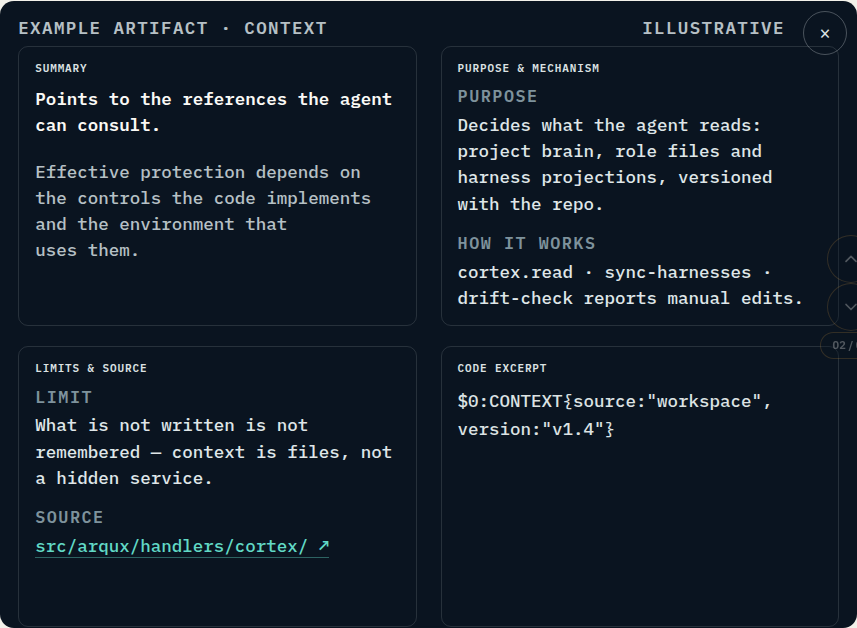
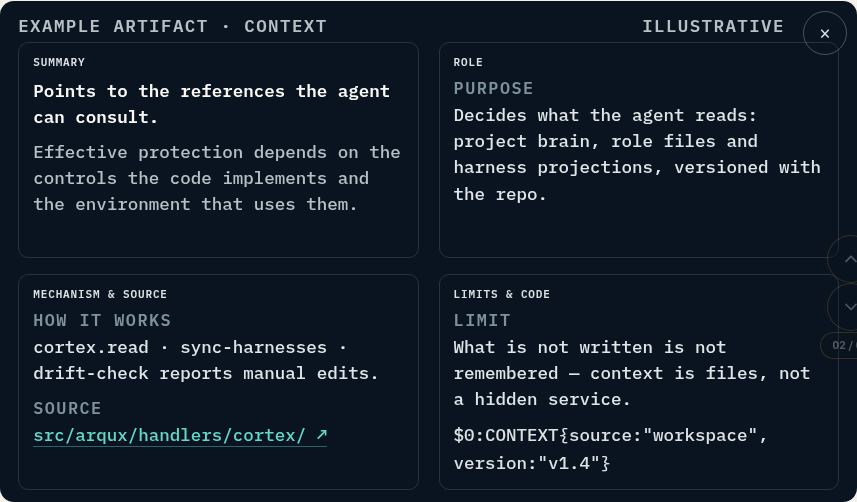
Detail card: pixel-equal quadrants, rebalance content, fix 320px overflow
- Rebalanced quadrant content so the tallest cell no longer dictates
  both rows: Role (purpose) / Mechanism & source (via+src) /
  Limits & code (limit+excerpt). Card fits the visual at ES 1024px
  without inner scroll (745px -> 551px needed).
- grid-auto-rows:1fr now applies on mobile too: all four cells are
  exactly equal width and height at every viewport.
- overflow-wrap:anywhere + min-width:0 along the flex/grid chain fix
  horizontal overflow at 320px (unbreakable source URLs).
- Moderate compaction: cell padding 12px, grid gap 16/20, card
  padding 14/18/12, dt margin 2px.

Generated with [Devin](https://devin.ai)

diff --git a/assets/style.css b/assets/style.css
@@ -74,20 +74,22 @@ h3{font-size:1.1rem;font-weight:650;letter-spacing:-.02em;margin-bottom:8px}.lea
 .hex-visual .hex-map{visibility:visible;transition:opacity .45s ease,transform .55s cubic-bezier(.2,.8,.3,1),visibility 0s}
 .hex-visual.is-detail .hex-map{pointer-events:none}
 @media(min-width:981px){.hex-visual.is-detail .hex-map{opacity:0;transform:translateY(38px) scale(.88) rotate(4deg);visibility:hidden;transition:opacity .38s ease,transform .5s cubic-bezier(.2,.8,.3,1),visibility 0s .45s}}
-.artifact-preview{position:absolute;top:0;left:0;right:0;height:auto;max-height:100%;z-index:6;margin-top:0;border-radius:14px;background:var(--ink-950);color:var(--paper-100);padding:16px 18px 14px;font:500 12px/1.6 var(--mono);overflow:auto;opacity:0;visibility:hidden;transform:translateY(10px) scale(.985);transition:opacity .28s ease,transform .34s cubic-bezier(.2,.8,.3,1),visibility .28s;pointer-events:none}
+.artifact-preview{position:absolute;top:0;left:0;right:0;height:auto;max-height:100%;z-index:6;margin-top:0;border-radius:14px;background:var(--ink-950);color:var(--paper-100);padding:14px 18px 12px;font:500 12px/1.6 var(--mono);overflow:auto;opacity:0;visibility:hidden;transform:translateY(10px) scale(.985);transition:opacity .28s ease,transform .34s cubic-bezier(.2,.8,.3,1),visibility .28s;pointer-events:none}
 .hex-visual.is-detail .artifact-preview{opacity:1;visibility:visible;transform:none;pointer-events:auto}
 .hex-visual>.artifact-preview{justify-self:stretch}
 .artifact-preview .artifact-label{padding-right:54px}
-.dim-benefit{margin:0 0 10px;font:600 17.5px/1.5 var(--mono);color:var(--paper-100)}
+.dim-benefit{margin:0;font:600 17.5px/1.5 var(--mono);color:var(--paper-100)}
 .dim-footer{margin:0;font:500 17.5px/1.5 var(--mono);color:var(--mist-500)}
-.dim-grid{display:grid;grid-template-columns:1fr 1fr;grid-auto-rows:1fr;gap:20px 24px}
-.dim-q{min-width:0;align-self:stretch;height:100%;display:flex;flex-direction:column;gap:10px;padding:14px 16px;border:1px solid rgba(220,226,227,.14);border-radius:10px;box-sizing:border-box}
+.dim-grid{display:grid;grid-template-columns:1fr 1fr;grid-auto-rows:1fr;gap:16px 20px}
+.dim-q{min-width:0;align-self:stretch;height:100%;display:flex;flex-direction:column;gap:8px;padding:12px 14px;border:1px solid rgba(220,226,227,.14);border-radius:10px;box-sizing:border-box;overflow-wrap:anywhere}
 .dim-q-title{margin:0;font:600 11px/1.4 var(--mono);letter-spacing:.08em;text-transform:uppercase;color:var(--mist-300)}
-.dim-q .ficha-rows{display:grid;grid-template-columns:1fr;gap:16px;margin:0;padding:0;border-top:0}
+.dim-q .ficha-rows{display:grid;grid-template-columns:1fr;gap:12px;margin:0;padding:0;border-top:0;min-width:0}
+.dim-q .ficha-rows>div{min-width:0}
+.dim-q .ficha-rows dt{margin-bottom:2px}
 .dim-q-code{display:block;font:500 17.5px/1.6 var(--mono);color:var(--mist-300);white-space:pre-wrap;overflow-wrap:anywhere}
 .dim-preview-close{position:absolute;right:10px;top:10px;width:44px;height:44px;display:grid;place-items:center;border:1px solid rgba(220,226,227,.3);border-radius:50%;background:transparent;color:var(--mist-300);font:400 20px/1 var(--sans);cursor:pointer}
 .dim-preview-close:hover{border-color:var(--amber-500);color:var(--amber-500)}
-.dim-preview-close:focus-visible{outline:2px solid var(--amber-500);outline-offset:3px}.artifact-label{display:flex;align-items:center;justify-content:space-between;gap:10px;color:var(--mist-500);font:600 10px/1.2 var(--mono);text-transform:uppercase;letter-spacing:.08em;margin-bottom:8px}
+.dim-preview-close:focus-visible{outline:2px solid var(--amber-500);outline-offset:3px}.artifact-label{display:flex;align-items:center;justify-content:space-between;gap:10px;color:var(--mist-500);font:600 10px/1.2 var(--mono);text-transform:uppercase;letter-spacing:.08em;margin-bottom:6px}
 #dimensions .artifact-preview{font-size:17.5px}#dimensions .artifact-label{font-size:17.5px}#dimensions .ficha-rows dt{font-size:16.8px}#dimensions .ficha-rows dd{font-size:17.5px}
 .codec-section{background:var(--ink-950);color:var(--paper-100)}.codec-section .eyebrow{color:#b9c4ca}
 .codec-section .eyebrow::before{background:var(--teal-400)}.codec-section .section-copy{color:#b6c0c5}
@@ -517,9 +519,9 @@ body.page-reference .section-nav{display:block}
   .dim-chip:hover{border-color:var(--amber-700)}
   .dim-chip[aria-pressed="true"]{border-color:var(--amber-700);background:#FFF6E8}
   .dim-chip:focus-visible{outline:3px solid var(--ink-950);outline-offset:2px;box-shadow:0 0 0 6px var(--amber-500)}
-  .hex-visual .artifact-preview{position:relative;display:none;max-height:none;overflow:visible;margin-top:14px;justify-self:stretch;width:100%}
+  .hex-visual .artifact-preview{position:relative;display:none;max-height:none;overflow:visible;margin-top:14px;justify-self:stretch;width:100%;min-width:0}
   .hex-visual.is-detail .artifact-preview{display:block}
-  .dim-grid{grid-template-columns:1fr;grid-auto-rows:auto;gap:16px}
+  .dim-grid{grid-template-columns:1fr;gap:16px}
   .compat-entry{grid-template-columns:1fr;gap:26px}
   .compat-routes{grid-template-columns:1fr}
 }

diff --git a/es/referencia/index.html b/es/referencia/index.html
@@ -158,7 +158,7 @@
               <button type="button" class="dim-chip" data-dimension="4" aria-pressed="false">5 · Ejecución — ¿Qué se hizo?</button>
               <button type="button" class="dim-chip" data-dimension="5" aria-pressed="false">6 · Evidencia — ¿Qué puede comprobarse?</button>
             </div>
-            <div class="artifact-preview" role="region" aria-label="Detalle de la dimensión" tabindex="-1"><button class="dim-preview-close" type="button" aria-label="Cerrar detalle">×</button><div class="artifact-label"><span id="artifact-name">Artefacto de ejemplo · identidad</span><span id="artifact-status">Ilustrativo</span></div><div class="dim-grid"><div class="dim-q dim-q-summary"><p class="dim-q-title">Resumen</p><p class="dim-benefit" id="dim-benefit"></p><p class="dim-footer">La protección efectiva depende de los controles que el código implementa y del entorno que los utiliza.</p></div><div class="dim-q"><p class="dim-q-title">Propósito y mecanismo</p><dl class="ficha-rows"><div><dt id="ficha-dt-fn">Para qué sirve</dt><dd id="ficha-fn">Vincula cada operación a un rol de agente declarado y a un contrato de comportamiento cargado desde el espacio de trabajo.</dd></div><div><dt id="ficha-dt-via">Cómo participa</dt><dd id="ficha-via"><code>identity.switch</code> · <code>arqux wake --identity</code> — la ejecución sin vínculo rechaza SESSION_UNBOUND.</dd></div></dl></div><div class="dim-q"><p class="dim-q-title">Límites y fuente</p><dl class="ficha-rows"><div><dt id="ficha-dt-lim">Qué límite tiene</dt><dd id="ficha-lim">Declarado, no autenticado: acota la responsabilidad, no las credenciales.</dd></div><div><dt id="ficha-dt-src">Fuente</dt><dd><a id="ficha-src" href="https://github.com/FidelErnesto03/arqux/tree/390333913e0f071a89241187f36cc90289e7e043/src/arqux/handlers/identity" target="_blank" rel="noreferrer">src/arqux/handlers/identity/ ↗</a></dd></div></dl></div><div class="dim-q"><p class="dim-q-title">Extracto de código</p><code id="artifact-code" class="dim-q-code">$1:IDENTITY{role:"executor", scope:"project:alpha"}</code></div></div></div>
+            <div class="artifact-preview" role="region" aria-label="Detalle de la dimensión" tabindex="-1"><button class="dim-preview-close" type="button" aria-label="Cerrar detalle">×</button><div class="artifact-label"><span id="artifact-name">Artefacto de ejemplo · identidad</span><span id="artifact-status">Ilustrativo</span></div><div class="dim-grid"><div class="dim-q dim-q-summary"><p class="dim-q-title">Resumen</p><p class="dim-benefit" id="dim-benefit"></p><p class="dim-footer">La protección efectiva depende de los controles que el código implementa y del entorno que los utiliza.</p></div><div class="dim-q"><p class="dim-q-title">Rol</p><dl class="ficha-rows"><div><dt id="ficha-dt-fn">Para qué sirve</dt><dd id="ficha-fn">Vincula cada operación a un rol de agente declarado y a un contrato de comportamiento cargado desde el espacio de trabajo.</dd></div></dl></div><div class="dim-q"><p class="dim-q-title">Mecanismo y fuente</p><dl class="ficha-rows"><div><dt id="ficha-dt-via">Cómo participa</dt><dd id="ficha-via"><code>identity.switch</code> · <code>arqux wake --identity</code> — la ejecución sin vínculo rechaza SESSION_UNBOUND.</dd></div><div><dt id="ficha-dt-src">Fuente</dt><dd><a id="ficha-src" href="https://github.com/FidelErnesto03/arqux/tree/390333913e0f071a89241187f36cc90289e7e043/src/arqux/handlers/identity" target="_blank" rel="noreferrer">src/arqux/handlers/identity/ ↗</a></dd></div></dl></div><div class="dim-q"><p class="dim-q-title">Límites y código</p><dl class="ficha-rows"><div><dt id="ficha-dt-lim">Qué límite tiene</dt><dd id="ficha-lim">Declarado, no autenticado: acota la responsabilidad, no las credenciales.</dd></div></dl><code id="artifact-code" class="dim-q-code">$1:IDENTITY{role:"executor", scope:"project:alpha"}</code></div></div></div>
           </div>
         </div>
       </div>

diff --git a/reference/index.html b/reference/index.html
@@ -158,7 +158,7 @@
               <button type="button" class="dim-chip" data-dimension="4" aria-pressed="false">5 · Execution — What happened?</button>
               <button type="button" class="dim-chip" data-dimension="5" aria-pressed="false">6 · Evidence — What can be verified?</button>
             </div>
-            <div class="artifact-preview" role="region" aria-label="Dimension detail" tabindex="-1"><button class="dim-preview-close" type="button" aria-label="Close detail">×</button><div class="artifact-label"><span id="artifact-name">Example artifact · identity</span><span id="artifact-status">Illustrative</span></div><div class="dim-grid"><div class="dim-q dim-q-summary"><p class="dim-q-title">Summary</p><p class="dim-benefit" id="dim-benefit"></p><p class="dim-footer">Effective protection depends on the controls the code implements and the environment that uses them.</p></div><div class="dim-q"><p class="dim-q-title">Purpose &amp; mechanism</p><dl class="ficha-rows"><div><dt id="ficha-dt-fn">Purpose</dt><dd id="ficha-fn">Binds every operation to a declared agent role and behavioral contract loaded from the workspace.</dd></div><div><dt id="ficha-dt-via">How it works</dt><dd id="ficha-via"><code>identity.switch</code> · <code>arqux wake --identity</code> — unbound execution rejects SESSION_UNBOUND.</dd></div></dl></div><div class="dim-q"><p class="dim-q-title">Limits &amp; source</p><dl class="ficha-rows"><div><dt id="ficha-dt-lim">Limit</dt><dd id="ficha-lim">Declared, not authenticated — it scopes responsibility, not credentials.</dd></div><div><dt id="ficha-dt-src">Source</dt><dd><a id="ficha-src" href="https://github.com/FidelErnesto03/arqux/tree/390333913e0f071a89241187f36cc90289e7e043/src/arqux/handlers/identity" target="_blank" rel="noreferrer">src/arqux/handlers/identity/ ↗</a></dd></div></dl></div><div class="dim-q"><p class="dim-q-title">Code excerpt</p><code id="artifact-code" class="dim-q-code">$1:IDENTITY{role:"executor", scope:"project:alpha"}</code></div></div></div>
+            <div class="artifact-preview" role="region" aria-label="Dimension detail" tabindex="-1"><button class="dim-preview-close" type="button" aria-label="Close detail">×</button><div class="artifact-label"><span id="artifact-name">Example artifact · identity</span><span id="artifact-status">Illustrative</span></div><div class="dim-grid"><div class="dim-q dim-q-summary"><p class="dim-q-title">Summary</p><p class="dim-benefit" id="dim-benefit"></p><p class="dim-footer">Effective protection depends on the controls the code implements and the environment that uses them.</p></div><div class="dim-q"><p class="dim-q-title">Role</p><dl class="ficha-rows"><div><dt id="ficha-dt-fn">Purpose</dt><dd id="ficha-fn">Binds every operation to a declared agent role and behavioral contract loaded from the workspace.</dd></div></dl></div><div class="dim-q"><p class="dim-q-title">Mechanism &amp; source</p><dl class="ficha-rows"><div><dt id="ficha-dt-via">How it works</dt><dd id="ficha-via"><code>identity.switch</code> · <code>arqux wake --identity</code> — unbound execution rejects SESSION_UNBOUND.</dd></div><div><dt id="ficha-dt-src">Source</dt><dd><a id="ficha-src" href="https://github.com/FidelErnesto03/arqux/tree/390333913e0f071a89241187f36cc90289e7e043/src/arqux/handlers/identity" target="_blank" rel="noreferrer">src/arqux/handlers/identity/ ↗</a></dd></div></dl></div><div class="dim-q"><p class="dim-q-title">Limits &amp; code</p><dl class="ficha-rows"><div><dt id="ficha-dt-lim">Limit</dt><dd id="ficha-lim">Declared, not authenticated — it scopes responsibility, not credentials.</dd></div></dl><code id="artifact-code" class="dim-q-code">$1:IDENTITY{role:"executor", scope:"project:alpha"}</code></div></div></div>
           </div>
         </div>
       </div>
